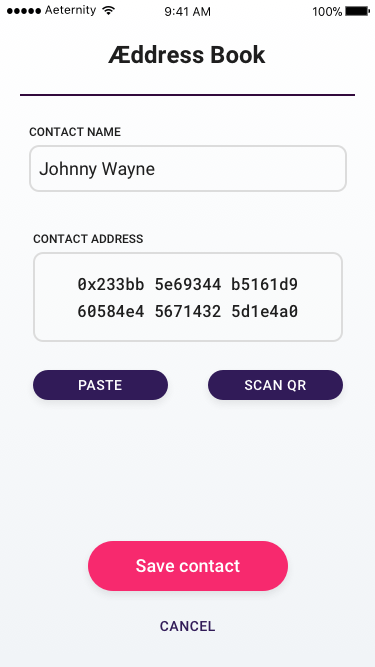
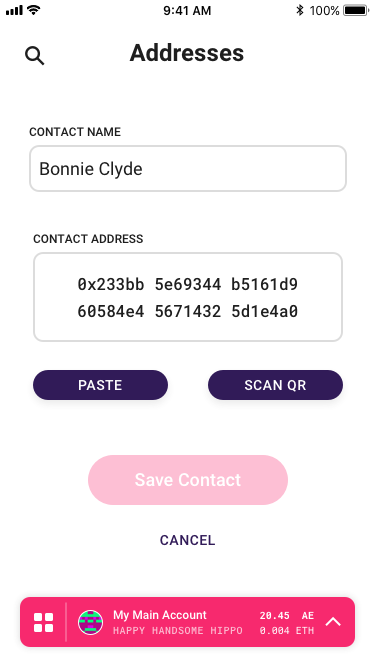
change chaerity to answers-for-ae, also replaced screenshots of addresses and messages

diff --git a/README.md b/README.md
@@ -1,38 +1,38 @@
 # aepps.com
 
-aeternity aepps Portal [GoHugo](https://github.com/gohugoio/hugo) implementation
+æternity æpps Portal [GoHugo](https://github.com/gohugoio/hugo) implementation
 
 
-The following description will provide all necessary information to easily create new aepp pages.
+The following description will provide all necessary information to easily create new æpp pages.
 
 
 
 ## Data
 
-In order to avoid data duplication, all aepps data is stored in  _/data/aepps.json_, which mimics a small database. All objects stored within it should have a similar structure. 
+In order to avoid data duplication, all æpps data is stored in  _/data/aepps.json_, which mimics a small database. All objects stored within it should have a similar structure. 
 
 
 Each object has a key, that will be later referenced in the content .md templates.
 
 ### Required Options:
 
-* ```name``` - It is usually the same with the "title" of aepp's .md template. It is required in cases like the "Similar aepps" section of a single aepp page, where an exact set of aepp .md templates cannot be iterated
-* ```urlName``` - Necessary attribute for building the aepp's single page URL
-* ```tag``` - The aepp's status tag. Example: _KOVAN TEST NET_
-* ```icon``` - Aepp's icon
-* ```description``` - The aepp's description
+* ```name``` - It is usually the same with the "title" of æpp's .md template. It is required in cases like the "Similar æpps" section of a single æpp page, where an exact set of æpp .md templates cannot be iterated
+* ```urlName``` - Necessary attribute for building the æpp's single page URL
+* ```tag``` - The æpp's status tag. Example: _KOVAN TEST NET_
+* ```icon``` - æpp's icon
+* ```description``` - The æpp's description
 * ```shortDescription``` - The description, that is displayed on card elements
 
 
 ### Other Options:
 
-* ```images``` - An array with images/screenshots of the aepp. They are usually required for the "Showcase" section.
-* ```tagVersion``` - The aepp's version tag. Example: _alpha_
-* ```tagCoreApp``` - A boolean to indicate whether the aepp will have a _CORE æpp_ tag.
-* ```appUrl``` - It will display the "Launch" button for the corresponding aepp
-* ```videoUrl``` - The **code** of the aepp's youtube video. It will be displayed at the "Screencast" section.
-* ```similar``` - An array with all similar to the current aepps
-* ```githubUrl``` - The aepp's github page URL. Displays the Github icon with a link in the aepp's single page.
+* ```images``` - An array with images/screenshots of the æpp. They are usually required for the "Showcase" section.
+* ```tagVersion``` - The æpp's version tag. Example: _alpha_
+* ```tagCoreApp``` - A boolean to indicate whether the æpp will have a _CORE æpp_ tag.
+* ```appUrl``` - It will display the "Launch" button for the corresponding æpp
+* ```videoUrl``` - The **code** of the æpp's youtube video. It will be displayed at the "Screencast" section.
+* ```similar``` - An array with all similar to the current æpps
+* ```githubUrl``` - The æpp's github page URL. Displays the Github icon with a link in the æpp's single page.
 * ```slackUrl``` - Just like _githubUrl_, but for Slack
 * ```facebookUrl``` - Just like _githubUrl_, but for Facebook 
 
@@ -61,13 +61,13 @@ Each object has a key, that will be later referenced in the content .md template
         "shortDescription": "Plan group holidays using smart contracts.",
         "similar": [
             "proof",
-            "chaerity",
+            "answers-for-ae",
             "theWall"
         ]
     }
 ```
 
-> Take notice, that although not required, the more of these attributes are applied, the better the aepp's presentation will get.
+> Take notice, that although not required, the more of these attributes are applied, the better the æpp's presentation will get.
 
 ## Content structure
 
@@ -78,14 +78,14 @@ Details about specific (not related to any global params, such as "title") conte
 Contains data about the home page
 
 * headline: Away from the default "title", this parameter will keep the title in the hero section of the home page.
-* coreAppsFirstRow: Holds an array with the keys of the aepps, that will be shown in the first row of "Core Aepps" section.
-* coreAppsSecondRow: As its name points, this param will keep the keys of the core aepps for the second row.
-* homePageAppCards: Another array with the keys of the aepps that will be shown as "cards" on the home page.
+* coreAppsFirstRow: Holds an array with the keys of the æpps, that will be shown in the first row of "Core æpps" section.
+* coreAppsSecondRow: As its name points, this param will keep the keys of the core æpps for the second row.
+* homePageAppCards: Another array with the keys of the æpps that will be shown as "cards" on the home page.
 
 #### Example:
 ```
 ---
-title: "aeternity aepps Portal"
+title: "æternity æpps Portal"
 headline: "Activate the power of the æternity æpp ecosystem"
 coreAppsFirstRow: ["transfer", "address"]
 coreAppsSecondRow: ["blockchainExplorer", "messages"]
@@ -115,9 +115,9 @@ Ihr Vertrauen ist uns wichtig. Deshalb respektieren wir den Datenschutz und...
 
 ### /aepps/_index.md
 
-Contains the data for the list template of all aepps
+Contains the data for the list template of all æpps
 
-* appsToShowOrdered: An array with the keys of all aepps that should be displayed on this page. This implementation is useful because it provides custom selection of aepps (you can skip an app, for instance - The Identity Manager, which is displayed on the home page) and custom order.
+* appsToShowOrdered: An array with the keys of all æpps that should be displayed on this page. This implementation is useful because it provides custom selection of æpps (you can skip an app, for instance - The Identity Manager, which is displayed on the home page) and custom order.
 
 #### Example:
 ```
@@ -125,7 +125,7 @@ Contains the data for the list template of all aepps
 title: "æternity æpps"
 appsToShowOrdered: [
     "transfer", "address", "blockchainExplorer",
-    "messages", "chaerity", "theWall", "voting",
+    "messages", "answers-for-ae", "theWall", "voting",
     "proof", "oaeuth", "haello", "flickerFilm", "vaecation",
     "whitelist"
 ]
@@ -135,9 +135,9 @@ appsToShowOrdered: [
 
 ### /aepps/some-aepp.md
 
-The md template for each of the aepps.
+The md template for each of the æpps.
 
-* key: The **JSON object key** of the data array, that holds all details for the current aepp.
+* key: The **JSON object key** of the data array, that holds all details for the current æpp.
 
 #### Example:
 ```

diff --git a/content/aepps/answers-for-ae.md b/content/aepps/answers-for-ae.md
@@ -1,0 +1,14 @@
+---
+title: "Answers for AE"
+key: "answers-for-ae"
+---
+
+## What it is
+The Answers for AE æpp brings together several interesting aspects of our current culture; celebrity worship, Twitter short form communication and philanthropy. Users are encouraged to create compelling questions directed toward well know people in the social media sphere. Once the person or group creates a video answer, all support bids from these questions are then donated to them.
+
+## How it works
+A user asks a famous person a question on Twitter, supporting their question with AE tokens. Based on other users interest in the question being answered, the community can add value to the question by supporting it with additional tokens. The person or group is then notified both on Twitter and through private message that the game is on! The person or group then has 1 month to create a video answer to the question being asked of them and post it on Twitter. They are encouraged to like and retweet this post to create buzz within their community in an effort to raise the value of the donation.
+Once the person or group has answered the question, all proceeds from the AE token support is then awarded to the them. This creates the opportunity for the community to put their tokens where their questions are and donate to a great cause.
+
+## The future
+This gateway æpp will hopefully serve as a bridge between the blockchain world and mere mortals who don’t yet understand how it works. By eliciting the PR machine of modern celebrity and making important donations to worthwhile causes, we hope to promote wider adoption of the power and potential that æternity holds for its users and the world.

diff --git a/content/aepps/_index.md b/content/aepps/_index.md
@@ -2,7 +2,7 @@
 title: "æternity æpps"
 appsToShowOrdered: [
     "transfer", "address", "blockchainExplorer",
-    "messages", "chaerity", "theWall", "voting",
+    "messages", "answers-for-ae", "theWall", "voting",
     "proof", "oaeuth", "haello", "flickerFilm", "vaecation",
     "whitelist"
 ]
